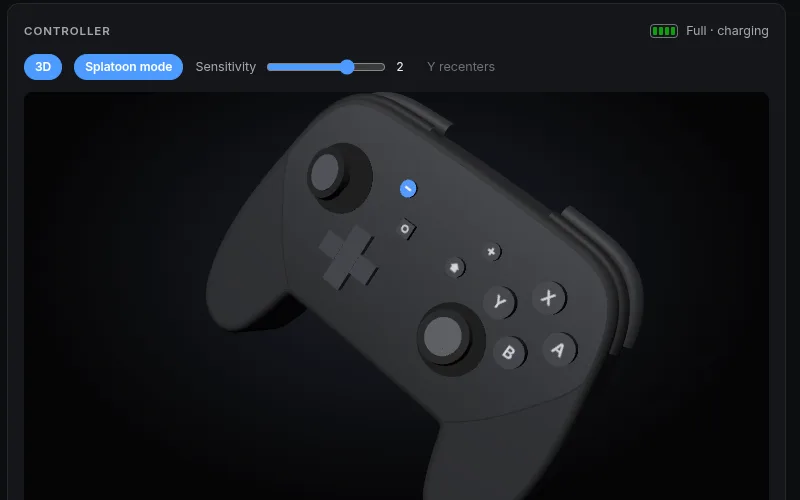
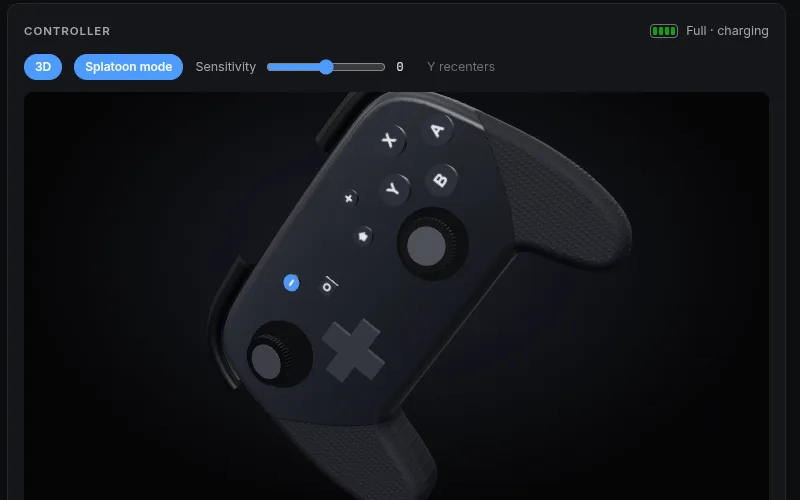
Round the 3D controller, keep frames flowing while starting a session - 3D view: rounded body with face art wrapped onto its edges, room   reflections, glossy face plate, matte dotted grips, ridged stick rims,   neutral tone mapping so theme colors stay true - Recorder: create the session folder and

Changed region(s): [[0.25, 0.18, 0.8125, 1.0], [0.375, 0.12, 0.4688, 0.15]]

diff --git a/web/controller3d.js b/web/controller3d.js
@@ -6,13 +6,17 @@
 // itself and the dashboard keeps the flat SVG view.
 
 import * as THREE from "https://cdn.jsdelivr.net/npm/three@0.186.1/+esm";
+import { RoomEnvironment } from "https://cdn.jsdelivr.net/npm/three@0.186.1/examples/jsm/environments/RoomEnvironment.js/+esm";
+import { mergeVertices } from "https://cdn.jsdelivr.net/npm/three@0.186.1/examples/jsm/utils/BufferGeometryUtils.js/+esm";
 
 const svg = document.getElementById("procon");
 const canvas = document.getElementById("procon-3d");
 const stage = canvas.parentElement;
 
-/** Body thickness in SVG units (the real controller is about 60 mm deep) */
-const DEPTH = 150;
+/** Straight part of the body's thickness, in SVG units */
+const DEPTH = 70;
+/** How far the rounded edge reaches in from the outline and back from the face */
+const ROUND = { inset: 30, depth: 55 };
 /** The SVG view box, which the face texture covers */
 const VIEW = { x: -40, y: -60, width: 980, height: 740 };
 /** SVG point to model coordinates: centered, y up */
@@ -24,11 +28,18 @@ const renderer = new THREE.WebGLRenderer({
   alpha: true,
 });
 renderer.setPixelRatio(Math.min(2, window.devicePixelRatio));
+// Neutral keeps theme colors true, unlike filmic curves
+renderer.toneMapping = THREE.NeutralToneMapping;
 const scene = new THREE.Scene();
+// A soft studio room to reflect, so plastic reads as plastic
+scene.environment = new THREE.PMREMGenerator(renderer).fromScene(
+  new RoomEnvironment(),
+  0.04,
+).texture;
+scene.environmentIntensity = 0.6;
 const camera = new THREE.PerspectiveCamera(28, 16 / 9, 10, 10000);
 camera.position.set(0, 0, 2300);
-scene.add(new THREE.HemisphereLight(0xffffff, 0x303038, 2.2));
-const sun = new THREE.DirectionalLight(0xffffff, 2.4);
+const sun = new THREE.DirectionalLight(0xffffff, 1.6);
 sun.position.set(-600, 900, 1400);
 scene.add(sun);
 
@@ -73,46 +84,108 @@ function sample(path, count, transform = (x, y) => [x, y]) {
   return points;
 }
 
-/** The front face artwork: plate, grips and seams from the SVG paths */
-function paintFace(colors) {
+/**
+ * Maps painted from the SVG paths and projected from the front: color, how
+ * glossy each part is (smooth face plate, matte grips), and the grips' dots
+ */
+function faceMaps(colors) {
   const scale = 2;
-  const face = document.createElement("canvas");
-  face.width = VIEW.width * scale;
-  face.height = VIEW.height * scale;
-  const ctx = face.getContext("2d");
-  ctx.scale(scale, scale);
-  ctx.translate(-VIEW.x, -VIEW.y);
+  const paths = {
+    body: new Path2D(svg.querySelector("#pc-shape").getAttribute("d")),
+    gripL: new Path2D(svg.querySelector("#pc-grip-l-shape").getAttribute("d")),
+    gripR: new Path2D(svg.querySelector("#pc-grip-r-shape").getAttribute("d")),
+    seam: new Path2D(svg.querySelector(".pc-seam").getAttribute("d")),
+  };
+  const paint = (draw) => {
+    const layer = document.createElement("canvas");
+    layer.width = VIEW.width * scale;
+    layer.height = VIEW.height * scale;
+    const ctx = layer.getContext("2d");
+    ctx.scale(scale, scale);
+    ctx.translate(-VIEW.x, -VIEW.y);
+    draw(ctx);
+    const texture = new THREE.CanvasTexture(layer);
+    // UVs are model coordinates; map them onto the view box
+    texture.repeat.set(1 / VIEW.width, 1 / VIEW.height);
+    texture.offset.set(
+      (450 - VIEW.x) / VIEW.width,
+      (VIEW.y + VIEW.height - 320) / VIEW.height,
+    );
+    return texture;
+  };
+  const grips = (ctx, left, right) => {
+    ctx.save();
+    ctx.clip(paths.body);
+    ctx.fillStyle = left;
+    ctx.fill(paths.gripL);
+    ctx.fillStyle = right;
+    ctx.fill(paths.gripR);
+    ctx.restore();
+  };
 
-  const shape = new Path2D(svg.querySelector("#pc-shape").getAttribute("d"));
-  const gradient = ctx.createLinearGradient(0, 0, 0, 640);
-  gradient.addColorStop(0, colors.face);
-  gradient.addColorStop(1, colors.faceLow);
-  ctx.fillStyle = gradient;
-  ctx.fill(shape);
-  ctx.save();
-  ctx.clip(shape);
-  for (const [id, color] of [
-    ["#pc-grip-l-shape", colors.gripL],
-    ["#pc-grip-r-shape", colors.gripR],
-  ]) {
-    ctx.fillStyle = color;
-    ctx.fill(new Path2D(svg.querySelector(id).getAttribute("d")));
-  }
-  ctx.restore();
-  ctx.strokeStyle = colors.seam;
-  ctx.lineWidth = 2;
-  ctx.stroke(new Path2D(svg.querySelector(".pc-seam").getAttribute("d")));
+  const map = paint((ctx) => {
+    const gradient = ctx.createLinearGradient(0, 0, 0, 640);
+    gradient.addColorStop(0, colors.face);
+    gradient.addColorStop(1, colors.faceLow);
+    ctx.fillStyle = gradient;
+    ctx.fillRect(VIEW.x, VIEW.y, VIEW.width, VIEW.height);
+    grips(ctx, colors.gripL, colors.gripR);
+    ctx.strokeStyle = colors.seam;
+    ctx.lineWidth = 2;
+    ctx.stroke(paths.seam);
+  });
+  map.colorSpace = THREE.SRGBColorSpace;
 
-  const texture = new THREE.CanvasTexture(face);
-  texture.colorSpace = THREE.SRGBColorSpace;
-  // Extruded caps use model coordinates as UVs; map them onto the view box
-  texture.repeat.set(1 / VIEW.width, 1 / VIEW.height);
-  texture.offset.set(
-    (450 - VIEW.x) / VIEW.width,
-    (VIEW.y + VIEW.height - 320) / VIEW.height,
-  );
+  // Roughness is read from green: glossy face plate, matte grips
+  const roughnessMap = paint((ctx) => {
+    ctx.fillStyle = "#5a5a5a";
+    ctx.fillRect(VIEW.x, VIEW.y, VIEW.width, VIEW.height);
+    grips(ctx, "#d2d2d2", "#d2d2d2");
+  });
+
+  // The grips' molded dots, as tiny bumps
+  const bumpMap = paint((ctx) => {
+    ctx.fillStyle = "#000";
+    ctx.fillRect(VIEW.x, VIEW.y, VIEW.width, VIEW.height);
+    const dots = document.createElement("canvas");
+    dots.width = dots.height = 11;
+    const d = dots.getContext("2d");
+    d.fillStyle = "#fff";
+    d.beginPath();
+    d.arc(5.5, 5.5, 1.4, 0, Math.PI * 2);
+    d.fill();
+    const pattern = ctx.createPattern(dots, "repeat");
+    grips(ctx, pattern, pattern);
+  });
+
+  return { map, roughnessMap, bumpMap };
+}
+
+/** Vertical ridges around a stick's rubber rim */
+function ridges() {
+  const strip = document.createElement("canvas");
+  strip.width = 8;
+  strip.height = 2;
+  const ctx = strip.getContext("2d");
+  ctx.fillStyle = "#000";
+  ctx.fillRect(0, 0, 8, 2);
+  ctx.fillStyle = "#fff";
+  ctx.fillRect(0, 0, 4, 2);
+  const texture = new THREE.CanvasTexture(strip);
+  texture.wrapS = THREE.RepeatWrapping;
+  texture.repeat.set(48, 1);
   return texture;
 }
+
+/** Project the body's UVs from the front, so rounded edges take the face art too */
+const frontProjection = {
+  generateTopUV(geometry, v, a, b, c) {
+    return [a, b, c].map((i) => new THREE.Vector2(v[i * 3], v[i * 3 + 1]));
+  },
+  generateSideWallUV(geometry, v, a, b, c, d) {
+    return [a, b, c, d].map((i) => new THREE.Vector2(v[i * 3], v[i * 3 + 1]));
+  },
+};
 
 /** A round button top with its label, drawn on a canvas */
 function capTexture(background, ink, draw) {
@@ -183,9 +256,11 @@ function addButton(name, x, y, { radius = 0, size = 0, height, draw }, colors) {
         Math.PI / 2,
       )
     : new THREE.BoxGeometry(size, size, height);
-  const side = material(colors.buttonLow);
+  // Buttons are glossy hard plastic
+  const side = material(colors.buttonLow, { roughness: 0.3 });
   const top = material("#ffffff", {
     map: capTexture(colors.button, colors.ink, draw),
+    roughness: 0.3,
   });
   const pressedTop = capTexture(colors.press, colors.pressInk, draw);
   // Cylinder groups: side, top, bottom; box groups: +x, -x, +y, -y, +z, -z
@@ -225,27 +300,30 @@ function build() {
   for (const child of [...model.children]) model.remove(child);
   buttons.clear();
 
-  // Body: the outline extruded, front face at z = 0
+  // Body: the outline extruded with a deep rounded edge that stays inside
+  // the outline, front face at z = 0
   const outline = new THREE.Shape(sample(svg.querySelector("#pc-shape"), 400));
-  const body = new THREE.ExtrudeGeometry(outline, {
+  let body = new THREE.ExtrudeGeometry(outline, {
     depth: DEPTH,
     bevelEnabled: true,
-    bevelThickness: 18,
-    bevelSize: 16,
-    bevelSegments: 6,
+    bevelThickness: ROUND.depth,
+    bevelSize: ROUND.inset,
+    bevelOffset: -ROUND.inset,
+    bevelSegments: 12,
     curveSegments: 1,
+    UVGenerator: frontProjection,
   });
-  // Put the front face, bevel included, at z = 0
-  body.translate(0, 0, -DEPTH - 18);
-  const faceMaterial = material("#ffffff", {
-    map: paintFace(colors),
-    roughness: 0.45,
-  });
+  body.translate(0, 0, -DEPTH - ROUND.depth);
+  // Share vertices so the rounded edge shades smoothly instead of in facets
+  body.deleteAttribute("normal");
+  body = mergeVertices(body);
+  body.computeVertexNormals();
+  const maps = faceMaps(colors);
   model.add(
-    new THREE.Mesh(body, [
-      faceMaterial,
-      material(colors.faceLow, { roughness: 0.7 }),
-    ]),
+    new THREE.Mesh(
+      body,
+      material("#ffffff", { ...maps, roughness: 1, bumpScale: 0.6 }),
+    ),
   );
 
   // Shoulders follow the path just outside the outline: bumpers toward the
@@ -337,9 +415,14 @@ function build() {
       material(colors.buttonLow),
     );
     post.position.z = 20;
+    const rim = material(colors.buttonLow, {
+      roughness: 0.85,
+      bumpMap: ridges(),
+      bumpScale: 1.5,
+    });
     const cap = new THREE.Mesh(
       new THREE.CylinderGeometry(56, 58, 16, 64).rotateX(Math.PI / 2),
-      material(colors.buttonLow, { roughness: 0.8 }),
+      [rim, material(colors.buttonLow, { roughness: 0.85 }), rim],
     );
     cap.position.z = 44;
     const top = new THREE.Mesh(
@@ -352,7 +435,7 @@ function build() {
     sticks[side] = pivot;
     buttons.set(`${side}_stick`, {
       meshes: [cap],
-      band: cap.material,
+      band: rim,
       color: colors.buttonLow,
     });
   }

diff --git a/src/recorder.rs b/src/recorder.rs
@@ -131,20 +131,27 @@ impl Recorder {
 
     /// Create a session folder and start writing frames; returns the folder
     pub fn start(&self) -> Result<PathBuf> {
-        let mut inner = self.lock();
-        ensure!(inner.writer.is_none(), "already recording");
+        let prefix = {
+            let inner = self.lock();
+            ensure!(inner.writer.is_none(), "already recording");
+            inner.prefix.clone()
+        };
 
-        let parent = prefix_parent(&inner.prefix);
+        // Creating files on a network mount can take a second; do it without
+        // the lock so incoming frames and the live view keep flowing
+        let parent = prefix_parent(&prefix);
         ensure!(
             parent.is_dir(),
             "folder does not exist: {}",
             parent.display()
         );
-        let dir = session_dir(&inner.prefix);
+        let dir = session_dir(&prefix);
         std::fs::create_dir(&dir).with_context(|| format!("cannot create {}", dir.display()))?;
         let writer = FileDumper::new(dir.join(CONTROLLER_FILE))?;
         log::info!("Recording to {}", dir.display());
 
+        let mut inner = self.lock();
+        ensure!(inner.writer.is_none(), "already recording");
         inner.writer = Some(writer);
         inner.session = Some(dir.clone());
         inner.frames = 0;
@@ -180,13 +187,17 @@ impl Recorder {
 
     /// Close the session, making sure the controller data reached the disk
     pub fn stop(&self) -> Result<()> {
-        let mut inner = self.lock();
-        let Some(mut writer) = inner.writer.take() else {
-            bail!("not recording");
+        let (mut writer, frames) = {
+            let mut inner = self.lock();
+            let Some(writer) = inner.writer.take() else {
+                bail!("not recording");
+            };
+            inner.stop_clock();
+            (writer, inner.frames)
         };
-        inner.stop_clock();
+        // Syncing to disk can be slow; frames arriving meanwhile are simply not recorded
         writer.sync()?;
-        log::info!("Recording stopped after {} frames", inner.frames);
+        log::info!("Recording stopped after {} frames", frames);
         Ok(())
     }
 

diff --git a/src/studio.rs b/src/studio.rs
@@ -129,10 +129,12 @@ impl Studio {
                 }
             }
             Command::Stop => {
+                let stopped_at = unix_ms();
                 self.recorder.stop()?;
                 if let Some(current) = session.as_mut() {
+                    // Stamped before ffmpeg spends a moment finishing the file
+                    current.stopped_at_ms = Some(stopped_at);
                     self.finish_segment(current);
-                    current.stopped_at_ms = Some(unix_ms());
                     self.write_session(current)?;
                 }
             }
